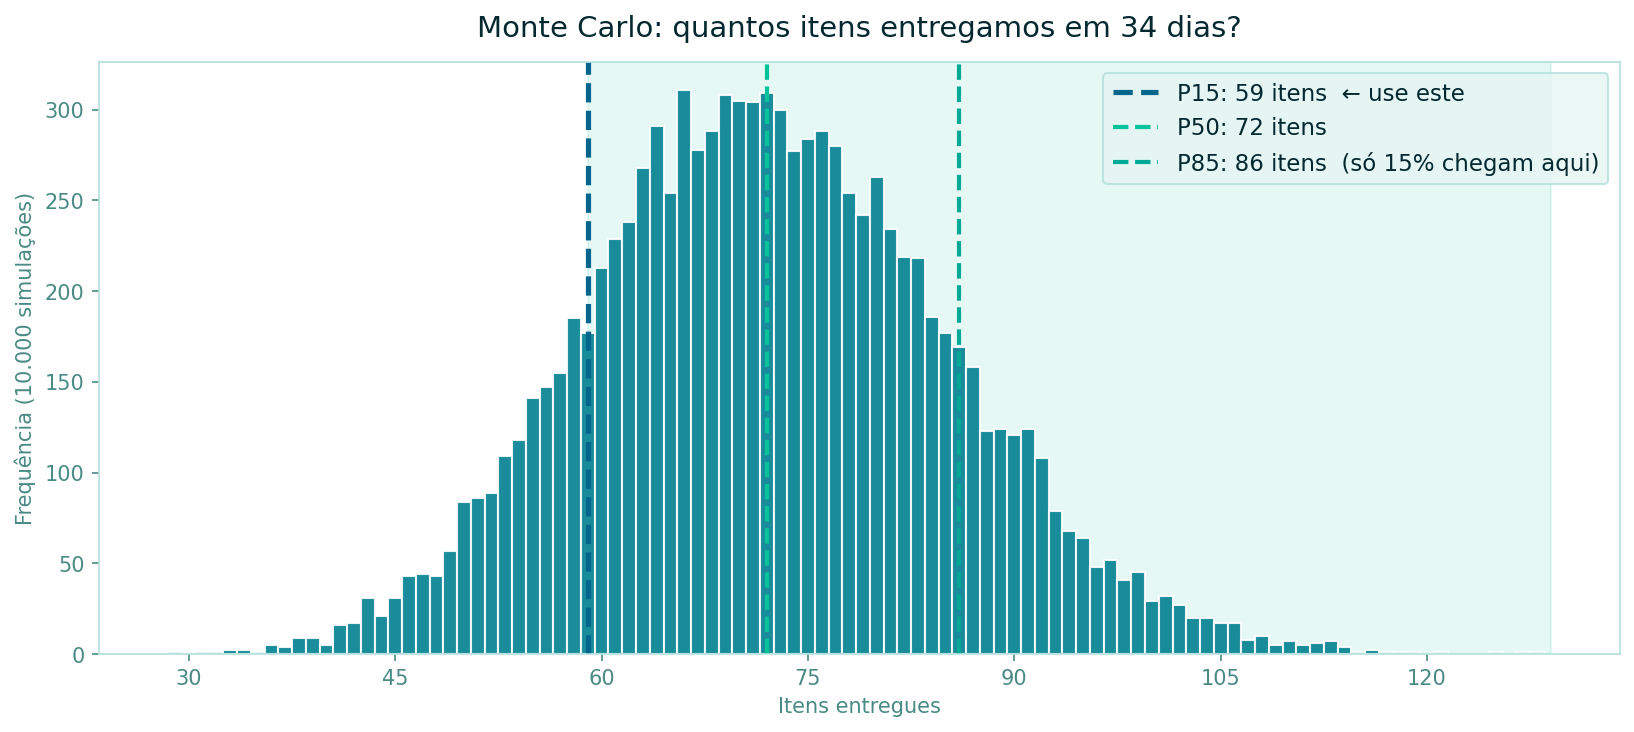
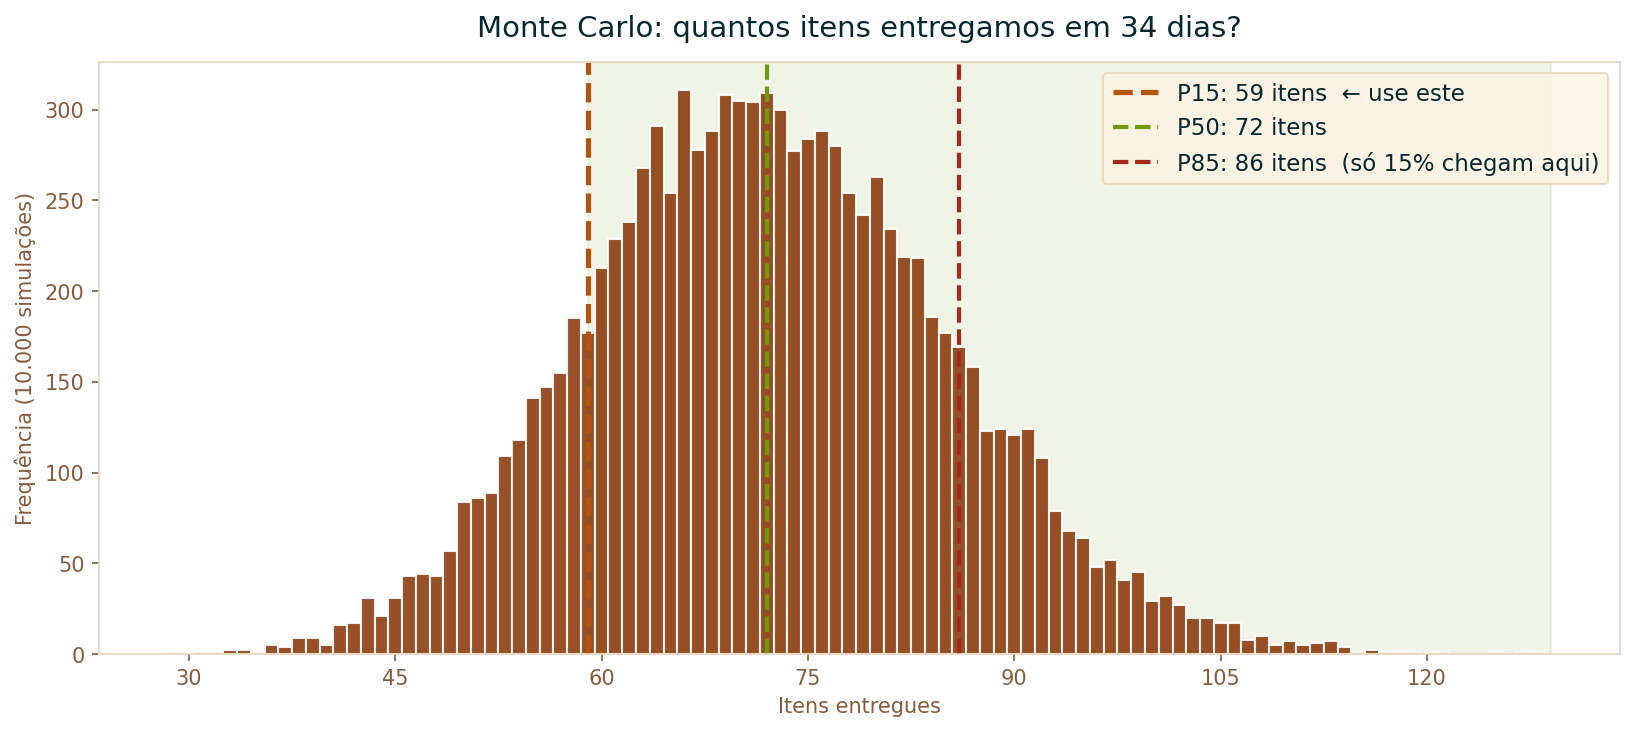
feat(charts): repaint the generated charts in the PyNE palette
The 13 generated images still carried the full Turquoise Harmony palette, so
every chart on a slide was teal and blue against warm chrome. Remaps the ten
palette constants and regenerates.

The series are not separated by luminance, and cannot be: on a white ground
every series needs at least 3:1 against white, which caps luminance around
0.28, and three series will not fit inside that band with 3:1 between them.
Separation comes from linestyle instead ('--', ':', '-'), which the percentile
plots already used. Each colour is therefore chosen for visibility against
white: green 3.33:1, orange 4.98:1, red 7.07:1, rust 7.53:1.

fig_cycle_time_scatterplot shadowed the module constants with its own local
palette (Tailwind slate and green) that matched neither the old deck nor the
new one, which is why its dots stayed mint after the first regeneration. It
now uses the shared constants.

RED was #00a896, a verdigris, despite the name. It is now actually red.

diff --git a/generate_charts.py b/generate_charts.py
@@ -19,17 +19,23 @@ OUTPUT_DIR = Path("slides/public")
 OUTPUT_DIR.mkdir(parents=True, exist_ok=True)
 DATA_FILE = Path("data/lead_time_data_clean_2026.csv")
 
-# Paleta Turquoise Harmony para charts
+# Paleta Python Nordeste 2026, tirada de slides/public/pyne-logo.svg.
+#
+# As series nao se separam por luminancia: num fundo branco toda serie precisa
+# de pelo menos 3:1 contra o branco, o que limita a luminancia a ~0.28, e nessa
+# faixa nao cabem tres series com 3:1 entre elas. Quem separa as series aqui e
+# o linestyle ("--", ":", "-"), ja usado nos percentis. Cada cor abaixo e
+# escolhida para ser visivel contra o branco, nao contra as outras.
 BG = "#ffffff"
-BG2 = "#f0f3bd"  # cream
-SURFACE = "#e5f5f3"  # teal tint
-TEXT = "#032830"  # near-black dark teal
-TEXT_MUTED = "#4a8a84"  # muted teal
-GRID = "#b2e0db"  # light teal
-GREEN = "#02c39a"  # mint-leaf
-RED = "#00a896"  # verdigris
-MAIN = "#05668d"  # baltic-blue
-MC_BAR = "#028090"  # teal
+BG2 = "#fff8e5"  # PyNE cream
+SURFACE = "#fdf3e3"  # warm tint, igual a faixa do cabecalho de tabela
+TEXT = "#032830"  # near-black, igual ao corpo de texto dos slides
+TEXT_MUTED = "#8a5a3c"  # warm brown, 5.82:1 no branco
+GRID = "#e8d5bc"  # warm light
+GREEN = "#6f9a0a"  # PyNE green, 3.33:1
+RED = "#a62a1b"  # PyNE red, 7.07:1 (antes era verdigris, apesar do nome)
+MAIN = "#b4540a"  # PyNE orange, 4.98:1, mesmo tom dos h1
+MC_BAR = "#8c3d10"  # rust, 7.53:1
 
 
 def load_data(clean_cycle_time: bool = True) -> pd.DataFrame:
@@ -903,11 +909,15 @@ def fig_cycle_time_scatterplot(df: pd.DataFrame) -> None:
     ct = df["cycle_time_days"]
     dates = df["finished_at"]
 
-    plot_bg = "#ffffff"
-    text_main = "#0f172a"
-    text_muted = "#475569"
-    grid = "#cbd5e1"
-    point = "#16a34a"
+    # Esta funcao tinha sua propria paleta (slate + green do Tailwind), que nao
+    # batia nem com a antiga nem com a nova. Agora usa as constantes do modulo.
+    # Os pontos usam MC_BAR para nao competir com as linhas de P50 (GREEN) e
+    # P85 (MAIN) que passam por cima deles.
+    plot_bg = BG
+    text_main = TEXT
+    text_muted = TEXT_MUTED
+    grid = GRID
+    point = MC_BAR
 
     fig, ax = plt.subplots(figsize=(13, 5), facecolor=plot_bg)
     ax.set_facecolor(plot_bg)
